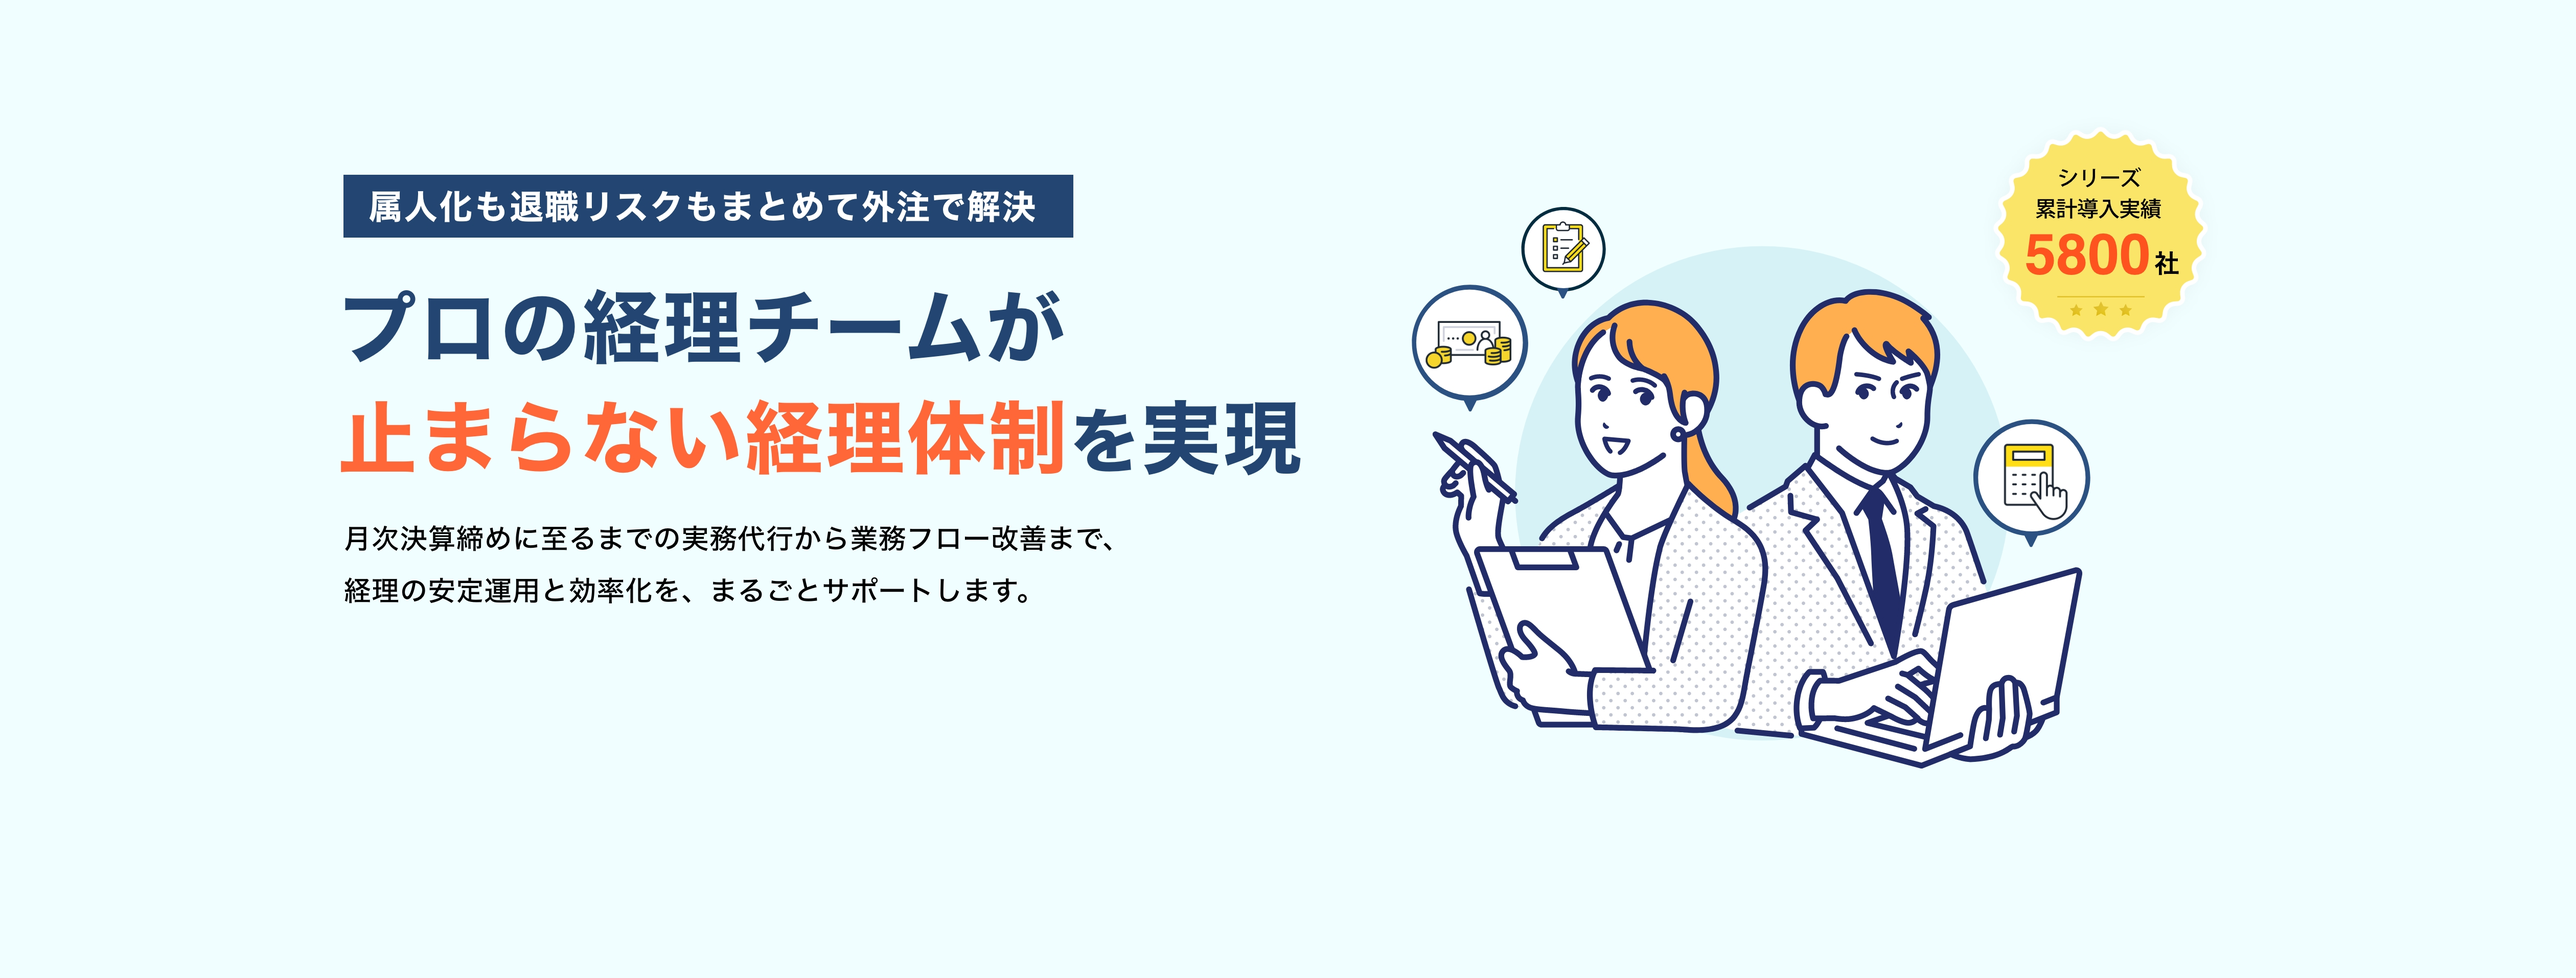
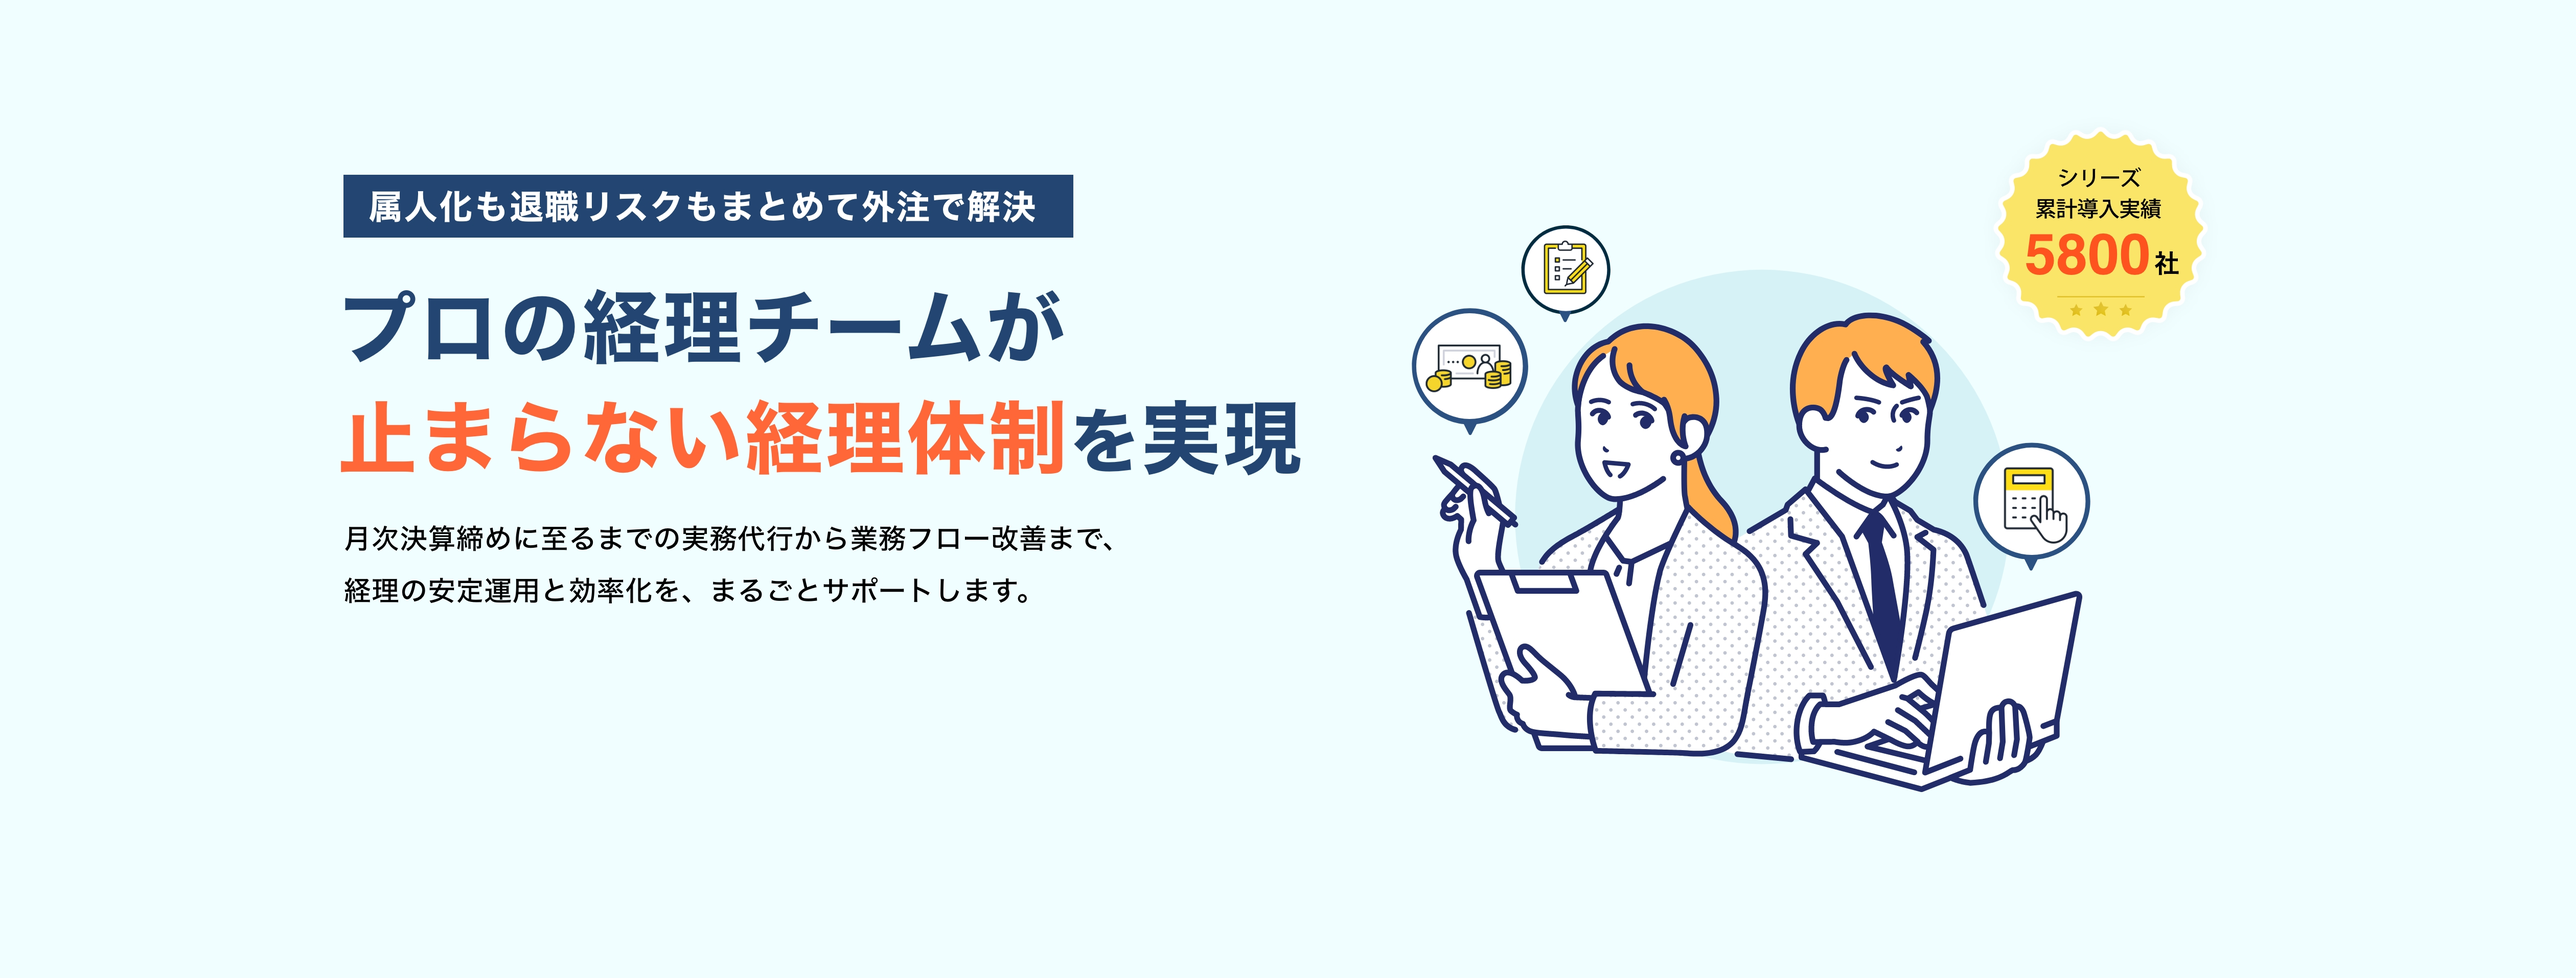
a

Changed region(s): [[0.5296, 0.2158, 0.8099, 0.8015]]

diff --git a/public/index.html b/public/index.html
@@ -73,7 +73,7 @@
               </a>
             </div>
             <div class="cb-fv__cta cb-cta">
-              <a href="https://meetings.hubspot.com/caster-biz/caster-biz-accounting?utm_source=google&utm_medium=cpc&utm_campaign=acc_ppc_generic&uuid=5d134c20-0afa-4f96-90cd-30bd4807c5d7" target="_blank">
+              <a href="#c-form">
                 <img src="assets/img/cta_navy.png" class="" alt="個別相談を予約する">
               </a>
             </div>
@@ -432,7 +432,7 @@
               </a>
             </div>
             <div class="cb-mock__cta cb-cta">
-              <a href="https://meetings.hubspot.com/caster-biz/caster-biz-accounting?utm_source=google&utm_medium=cpc&utm_campaign=acc_ppc_generic&uuid=5d134c20-0afa-4f96-90cd-30bd4807c5d7" target="_blank">
+              <a href="#c-form">
                 <img src="assets/img/cta_navy.png" class="" alt="個別相談を予約する">
               </a>
             </div>
@@ -751,7 +751,7 @@
               </a>
             </div>
             <div class="cb-mock__cta cb-cta">
-              <a href="https://meetings.hubspot.com/acc-hr/caster-biz-accounting">
+              <a href="#c-form">
                 <img src="assets/img/cta_navy.png" class="" alt="個別相談を予約する">
               </a>
             </div>
@@ -1188,9 +1188,9 @@
           <script charset="utf-8" type="text/javascript" src="//js.hsforms.net/forms/embed/v2.js"></script>
           <script>
             hbspt.forms.create({
-              region: "na1",
               portalId: "8058161",
-              formId: "906aec8e-eec8-42e2-9b2c-6f126fca0682"
+              formId: "278b5e15-abf3-440f-9cfb-16f53c2d2267",
+              region: "na1"
             });
           </script>
 

diff --git a/public/assets/css/object/style.css b/public/assets/css/object/style.css
@@ -92,8 +92,8 @@
     margin: auto;
     margin-bottom: 6.4px;
     margin-bottom: 0.4rem;
-    box-shadow: 0 0 10px rgb(0 0 0 / 18%);
-    box-shadow: 0 0 0.625rem rgb(0 0 0 / 18%);
+    /* box-shadow: 0px 6px 10px rgb(0 0 0 / 18%); */
+    /* box-shadow: 0 0 0.625rem rgb(0 0 0 / 18%); */
     border-radius: 80px;
     border-radius: 5rem;
 }
@@ -651,8 +651,8 @@
 }
 
 .cb-mock__cta {
-    box-shadow: 0 0 10px rgb(0 0 0 / 11%);
-    box-shadow: 0 0 0.625rem rgb(0 0 0 / 11%);
+    /* box-shadow: 0 0 10px rgb(0 0 0 / 11%); */
+    /* box-shadow: 0 0 0.625rem rgb(0 0 0 / 11%); */
 }
 
 .cb-mock__cta a {
@@ -2279,7 +2279,7 @@
         width: 36%;
         display: flex;
         position: absolute;
-        top: 69%;
+        top: 71%;
         left: 30.6%;
         transform: translate(-50%, -50%);
         align-items: center;
@@ -2640,14 +2640,14 @@
     }
 
     .cb-mock__cta-inner {
-        max-width: 900px;
+        max-width: 830px;
     }
 
     .cta-moji-2 {
         font-size: 23px;
         font-size: 1.4375rem;
         margin-bottom: 16px;
-        margin-bottom: 1rem;
+        margin-bottom: 1.4rem;
         max-width: 710px;
     }
 
@@ -2664,7 +2664,7 @@
     }
 
     .cb-mock__cta {
-        max-width: 440px;
+        max-width: 400px;
     }
 
     .cb-mock__cta a {
